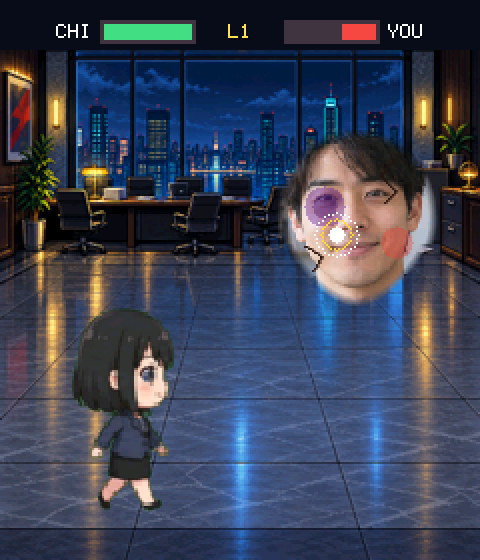
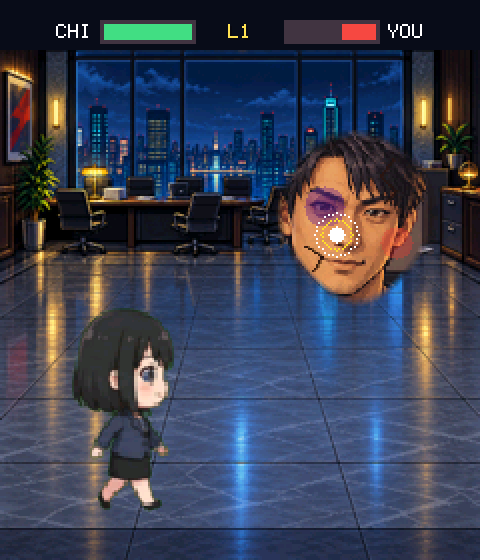
fix: replace realistic readme face

Changed region(s): [[0.5625, 0.2125, 0.9375, 0.5464]]

diff --git a/tools/screenshots/render_screens.py b/tools/screenshots/render_screens.py
@@ -2,11 +2,11 @@
 """Render README screenshots from the firmware's own drawing code.
 
 The game logic and renderer in main/main.cpp are compiled on the host with
-hardware functions stripped out. An AI-generated fictional adult stands in for
+hardware functions stripped out. An AI-generated pixel-art adult stands in for
 the camera input so no real person appears in the images.
 
 Usage: uv run --with pillow python tools/screenshots/render_screens.py
-Output: docs/images/*.png and docs/images/lock-on-v2.gif
+Output: docs/images/*.png and docs/images/lock-on-v3.gif
 """
 import pathlib
 import re
@@ -83,7 +83,7 @@ def main() -> None:
         for ppm in sorted(frames.glob("[0-9]*.ppm")):
             load_ppm(ppm).save(OUT / f"{ppm.stem}.png")
         lock = [load_ppm(p) for p in sorted(frames.glob("lock-*.ppm"))]
-        lock[0].save(OUT / "lock-on-v2.gif", save_all=True, append_images=lock[1:],
+        lock[0].save(OUT / "lock-on-v3.gif", save_all=True, append_images=lock[1:],
                      duration=50, loop=0)
         lock[len(lock) // 2].save(OUT / "02-lock-on.png")
     print("wrote", ", ".join(sorted(p.name for p in OUT.iterdir())))

diff --git a/README.md b/README.md
@@ -10,7 +10,7 @@ transparent, moving opponent while Secretary Chi walks, punches, kicks, dodges,
 blocks, gets hit, and celebrates using pixel-art sprite animation.
 
 <p align="center">
-  <img src="docs/images/lock-on-v2.gif" width="320" alt="Sniper lock-on sequence after the face is captured">
+  <img src="docs/images/lock-on-v3.gif" width="320" alt="Sniper lock-on sequence after the face is captured">
 </p>
 
 ## Screenshots
@@ -34,7 +34,7 @@ blocks, gets hit, and celebrates using pixel-art sprite animation.
 
 These screenshots are rendered by the firmware's own drawing code compiled on
 the host (see [Regenerating screenshots](#regenerating-screenshots)); the
-opponent is an AI-generated fictional adult, not a real person.
+opponent is an AI-generated pixel-art adult, not a real person.
 
 ## Game flow
 
